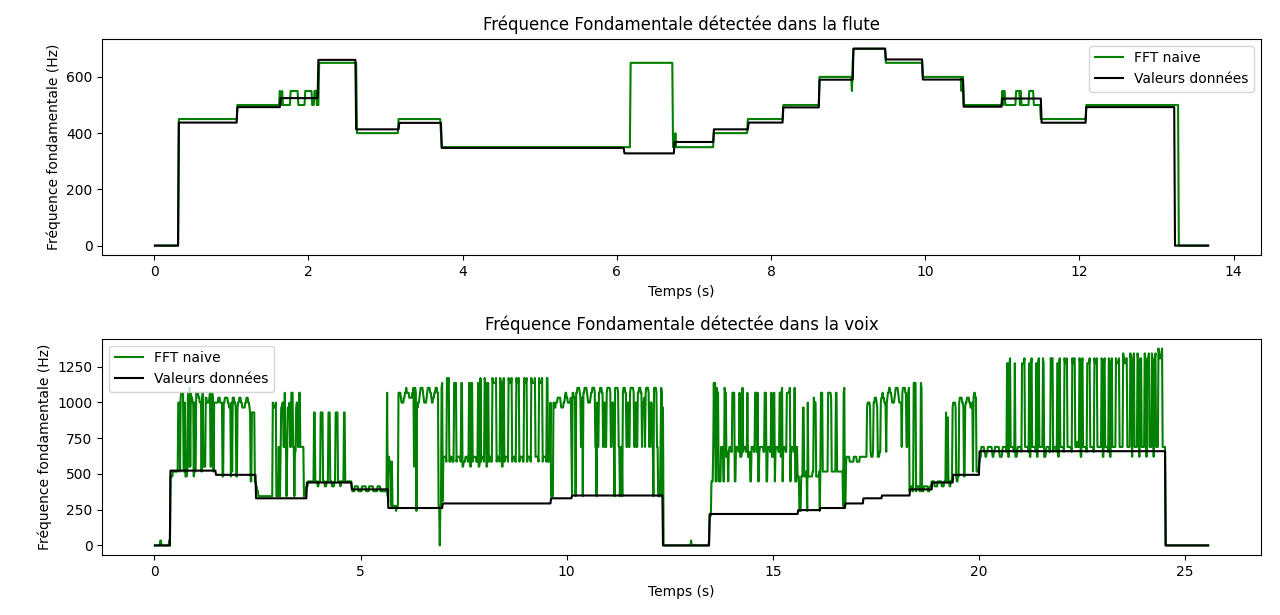
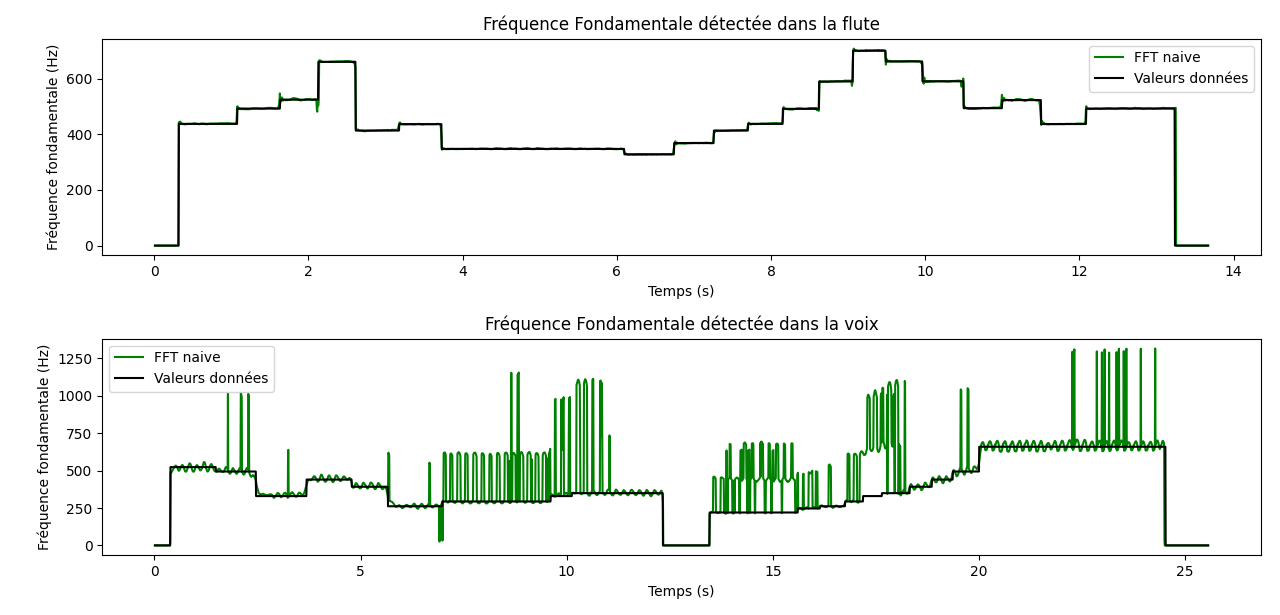
calculating rate good classifs

diff --git a/P1_fondamentale.py b/P1_fondamentale.py
@@ -4,7 +4,7 @@ import matplotlib.pyplot as plt
 import librosa
 import pandas as pd
 from scipy.signal import butter, filtfilt
-
+import os
 
 # Fonction pour détecter la fréquence fondamentale avec FFT
 def naive_fft_fundamental(signal, samplerate, window_size, hop_size, treshold):
@@ -14,7 +14,7 @@ def naive_fft_fundamental(signal, samplerate, window_size, hop_size, treshold):
         end = start + window_size
         window = signal[start:end]
         if np.mean(np.abs(window))>treshold:
-            windowed_signal = window * np.hamming(len(window))  # Appliquer une fenêtre de Hamming
+            windowed_signal = window #* np.hamming(len(window))  # Appliquer une fenêtre de Hamming
             padding = 2**15
             spectrum = np.fft.fft(windowed_signal,n=padding)[:padding//2]  # Spectre
             frequencies = np.fft.fftfreq(padding, d=1/samplerate)[:padding//2]
@@ -22,8 +22,8 @@ def naive_fft_fundamental(signal, samplerate, window_size, hop_size, treshold):
             
             # Trouver le premier pic maximal dans les fréquences
             peaks=[]
-            for i in range(len(magnitude)):
-                if magnitude[i]>magnitude[i+1] and magnitude[i]>magnitude[i-1]:
+            for i in range(1,len(magnitude)-1):
+                if magnitude[i]>magnitude[i+1] and magnitude[i]>magnitude[i-1] and magnitude[i]>0.6*np.max(magnitude):
                     peaks.append(i)
             fundamental_freq = frequencies[np.argmax(magnitude)]
             f0.append(frequencies[peaks[0]])
@@ -87,6 +87,9 @@ def autocorrelation_fundamental_with_filter(signal, samplerate, window_size, hop
     print("application d'un passe bas")
     return times, f0_filtered
 
+def pourcent_bonne_classif(signal, target, error):
+    return sum(np.abs(signal-target)<error)/len(signal)*100
+
 # Construire le chemin relatif vers le fichier audio
 script_dir = os.path.dirname(os.path.abspath(__file__))  # Répertoire du script
 audio_path = os.path.join(script_dir, 'audio_files', 'fluteircam.wav')
@@ -128,8 +131,8 @@ f0_true = np.array(f0_true)
 # Affichage des résultats
 plt.figure(figsize=(10, 6))
 plt.subplot(2,1,1)
-plt.plot(times, f0_fft, label='FFT naive', color='green')
-plt.plot(times, f0_autocorr, label='Autocorrélation', color='purple')
+#plt.plot(times, f0_fft, label='FFT naive', color='green')
+#plt.plot(times, f0_autocorr, label='Autocorrélation', color='purple')
 plt.plot(times, f0_autocorr_vib, label='Autocorrélation filtrée passe bas', color='red')
 plt.plot(times, f0_true, label='Valeurs données', color='black')
 plt.title("Fréquence Fondamentale détectée dans la flute")
@@ -145,7 +148,13 @@ print('erreur moyenne L1 de la méthode par autocorrelation:' + str(np.linalg.no
 print('erreur moyenne L2 de la méthode par autocorrelation:' + str(np.linalg.norm(f0_true - f0_autocorr, ord=2)/np.sqrt(n)))
 print('erreur moyenne L1 de la méthode par autocorrelation filtrée:'+str(np.linalg.norm(f0_true - f0_autocorr_vib, ord=1)/n))
 print('erreur moyenne L2 de la méthode par autocorrelation filtrée:'+str(np.linalg.norm(f0_true - f0_autocorr_vib, ord=2)/np.sqrt(n)))
-
+print('\n')
+error=10
+print('Avec une erreur de '+str(error)+'hz')
+print("taux bonne classif méthode naive FFT "+str(pourcent_bonne_classif(f0_fft,f0_true,error))+"%")
+print("taux bonne classif méthode autocorrelation "+str(pourcent_bonne_classif(f0_autocorr,f0_true,error))+"%")
+print("taux bonne classif méthode autocorrelation filtrée "+str(pourcent_bonne_classif(f0_autocorr_vib,f0_true,error))+"%")
+print('\n')
 print("On constate que la méthode d'autocorrélation est plus précise.")
 print('En effet, la méthode naive ne détecte parfois pas la fondamentale mais les harmoniques.')
 print('De plus le filtrage enleve de la précision puisque la note de la flûte se maintient presque parfaitement')
@@ -183,8 +192,8 @@ f0_true = np.array(f0_true)
 
 # Affichage des résultats
 plt.subplot(2,1,2)
-plt.plot(times, f0_fft, label='FFT naive', color='green')
-plt.plot(times, f0_autocorr, label='Autocorrélation', color='purple')
+#plt.plot(times, f0_fft, label='FFT naive', color='green')
+#plt.plot(times, f0_autocorr, label='Autocorrélation', color='purple')
 plt.plot(times, f0_autocorr_vib, label='Autocorrélation filtrée passe bas', color='red')
 plt.plot(times, f0_true, label='Valeurs données', color='black')
 plt.title("Fréquence Fondamentale détectée dans la voix")
@@ -202,7 +211,13 @@ print('erreur moyenne L1 de la méthode par autocorrelation:'+str(np.linalg.norm
 print('erreur moyenne L2 de la méthode par autocorrelation:'+str(np.linalg.norm(f0_true - f0_autocorr, ord=2)/np.sqrt(n)))
 print('erreur moyenne L1 de la méthode par autocorrelation filtrée:'+str(np.linalg.norm(f0_true - f0_autocorr_vib, ord=1)/n))
 print('erreur moyenne L2 de la méthode par autocorrelation filtrée:'+str(np.linalg.norm(f0_true - f0_autocorr_vib, ord=2)/np.sqrt(n)))
-
+print('\n')
+error=10
+print('Avec une erreur de '+str(error)+'hz')
+print("taux bonne classif méthode naive FFT "+str(pourcent_bonne_classif(f0_fft,f0_true,error))+"%")
+print("taux bonne classif méthode autocorrelation "+str(pourcent_bonne_classif(f0_autocorr,f0_true,error))+"%")
+print("taux bonne classif méthode autocorrelation filtrée "+str(pourcent_bonne_classif(f0_autocorr_vib,f0_true,error))+"%")
+print('\n')
 print("On constate que la méthode d'autocorrélation est plus précise.")
 print('En effet, la méthode naive a du mal a détecter les vibratos légers.')
 print('Globalement les deux méthodes sont moins efficaces pour détecter la fondamentale')
